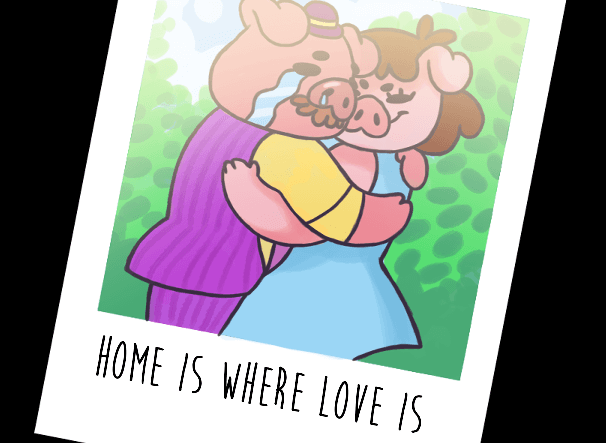
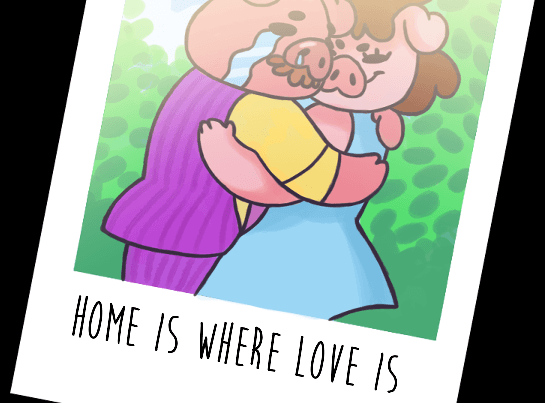
Updated cook post

diff --git a/post_cook_me_a_story.html b/post_cook_me_a_story.html
@@ -78,6 +78,7 @@
         least two ingredients, and every ingredient should have at least two
         characteristics. The idea was to have a well balanced system.
       </p>
+
       <p>
         An important thing about our game is that it truly speaks from our
         hearts. We had a trans woman as a programmer in our team and we wanted
@@ -87,7 +88,9 @@
         happiness, which made us feel very happy about what we created in terms
         of experience.
       </p>
-
+      <div class="small">
+        <img src="post_cook_5.png" />
+      </div>
       <h2>Final Outcome</h2>
       <p>
         <a href="https://rapyo.itch.io/cook-me-a-story">Available on Itch.io</a>
@@ -105,7 +108,7 @@
         And also, that it is great to create games with people you love and feel
         safe around ♥
       </p>
-      <img src="post_cook_5.png" />
+      <img src="post_cook_6.jpg" />
     </section>
     <footer>
       <div class="footer-disclaimer">Renata Rapyo - All rights reserved</div>
